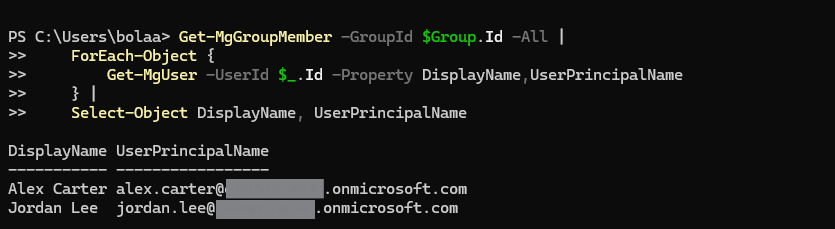
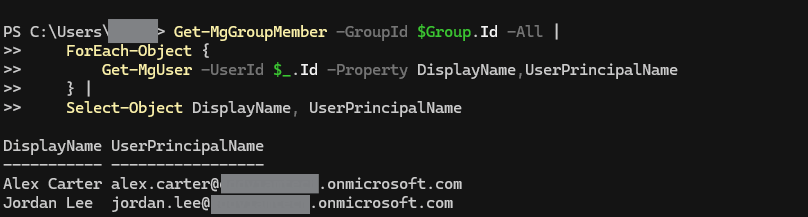
Fix README tables and update redacted validation screenshot

diff --git a/README.md b/README.md
@@ -137,33 +137,19 @@ Authenticated Session
 
 
 | Technology | Purpose |
-
 |---|---|
-
 | Microsoft Entra ID | Identity provider and centralized application access control |
-
 | Enterprise Applications | Service principal and application assignment management |
-
 | App Registrations | OIDC application identity and authentication configuration |
-
 | SAML 2.0 | Federated authentication with Salesforce |
-
 | OpenID Connect | Authentication for the Employee Portal |
-
 | OAuth 2.0 Authorization Code Flow | Authorization flow supporting OIDC authentication |
-
 | Salesforce Developer Edition | SAML Service Provider |
-
 | Python | Employee Portal application |
-
 | Flask | Web application framework |
-
 | Microsoft Authentication Library (MSAL) | Microsoft identity platform integration |
-
 | Microsoft Graph PowerShell | Independent configuration validation |
-
 | Entra Sign-in Logs | Authentication and authorization investigation |
-
 
 
 ---
@@ -197,13 +183,9 @@ Three test identities supported positive and negative testing:
 
 
 | User | Salesforce | Employee Portal | Purpose |
-
-|---|---:|---:|---|
-
+|---|---|---|---|
 | Alex Carter | Authorized | Authorized | Positive authentication testing |
-
 | Jordan Lee | Authorized | Authorized | Secondary positive authorization testing |
-
 | Cameron Brooks | Unauthorized | Unauthorized | Negative authorization testing |
 
 
